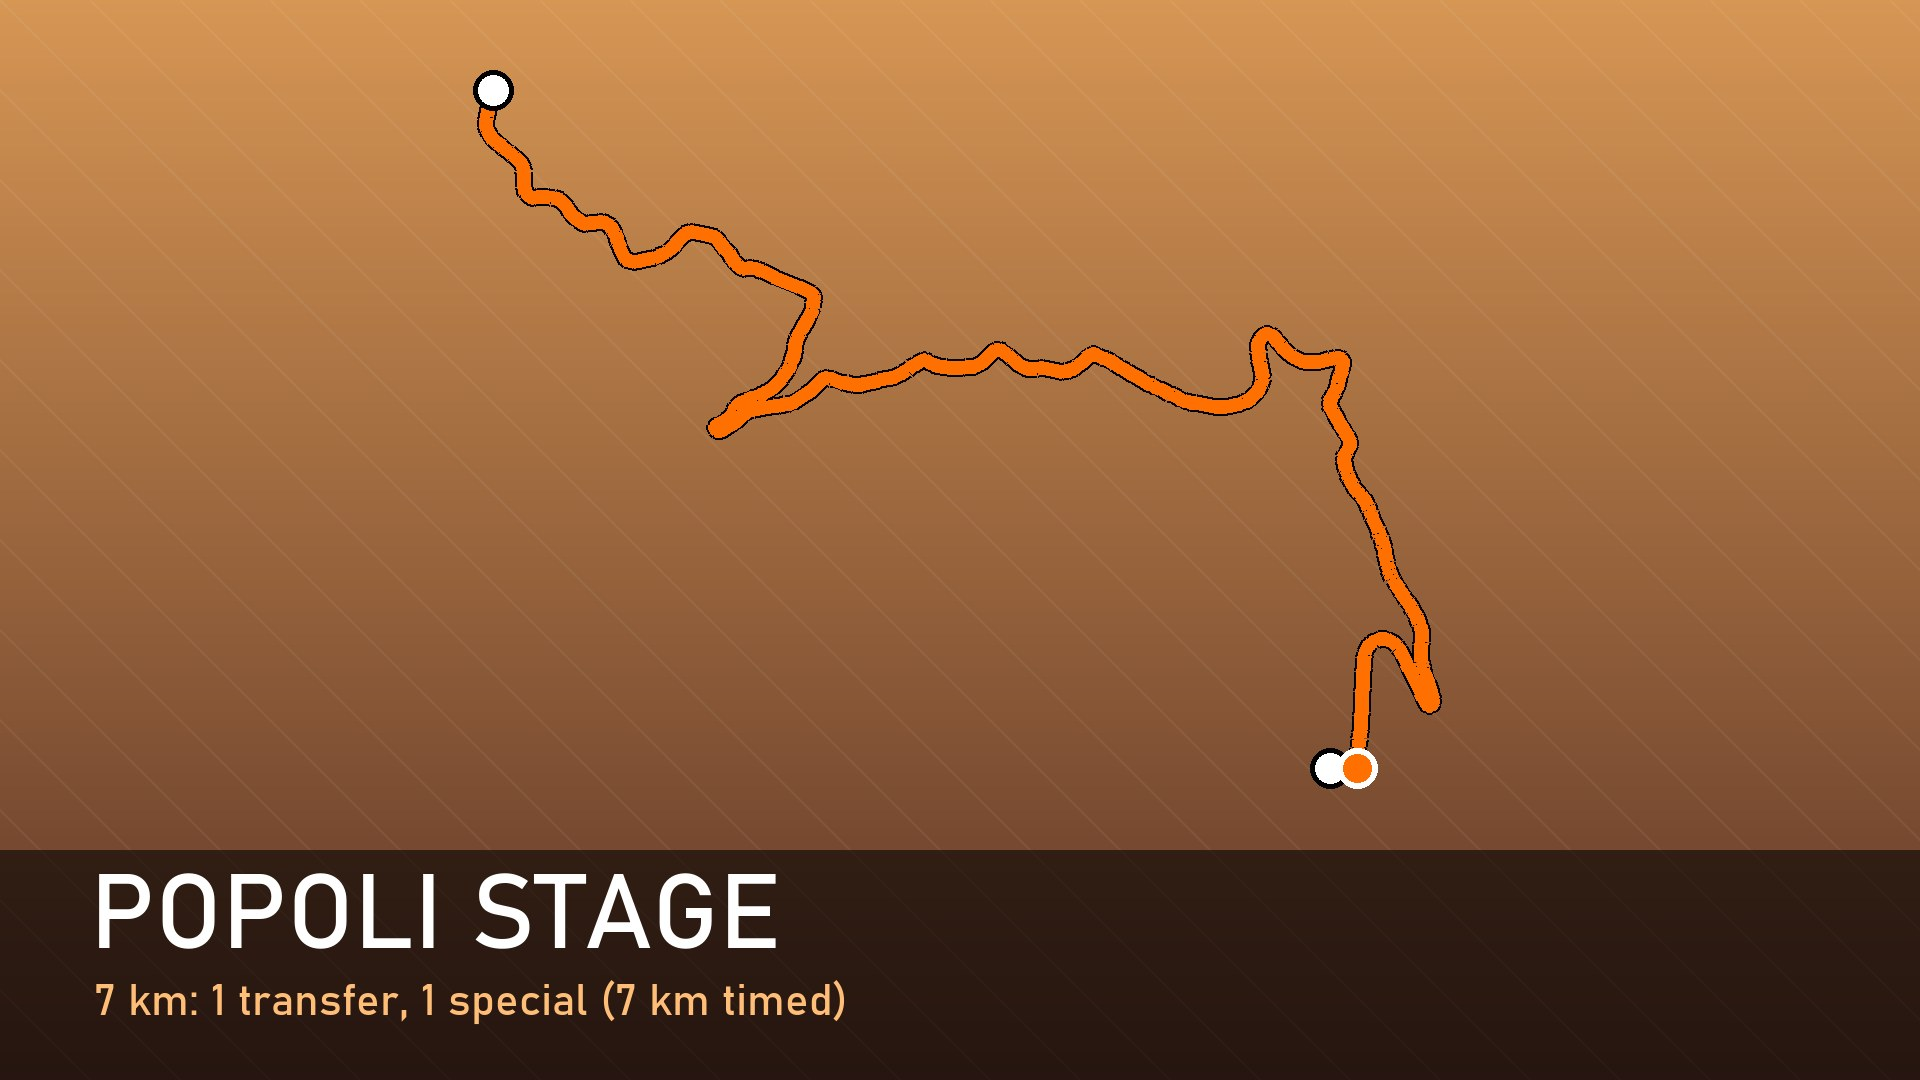
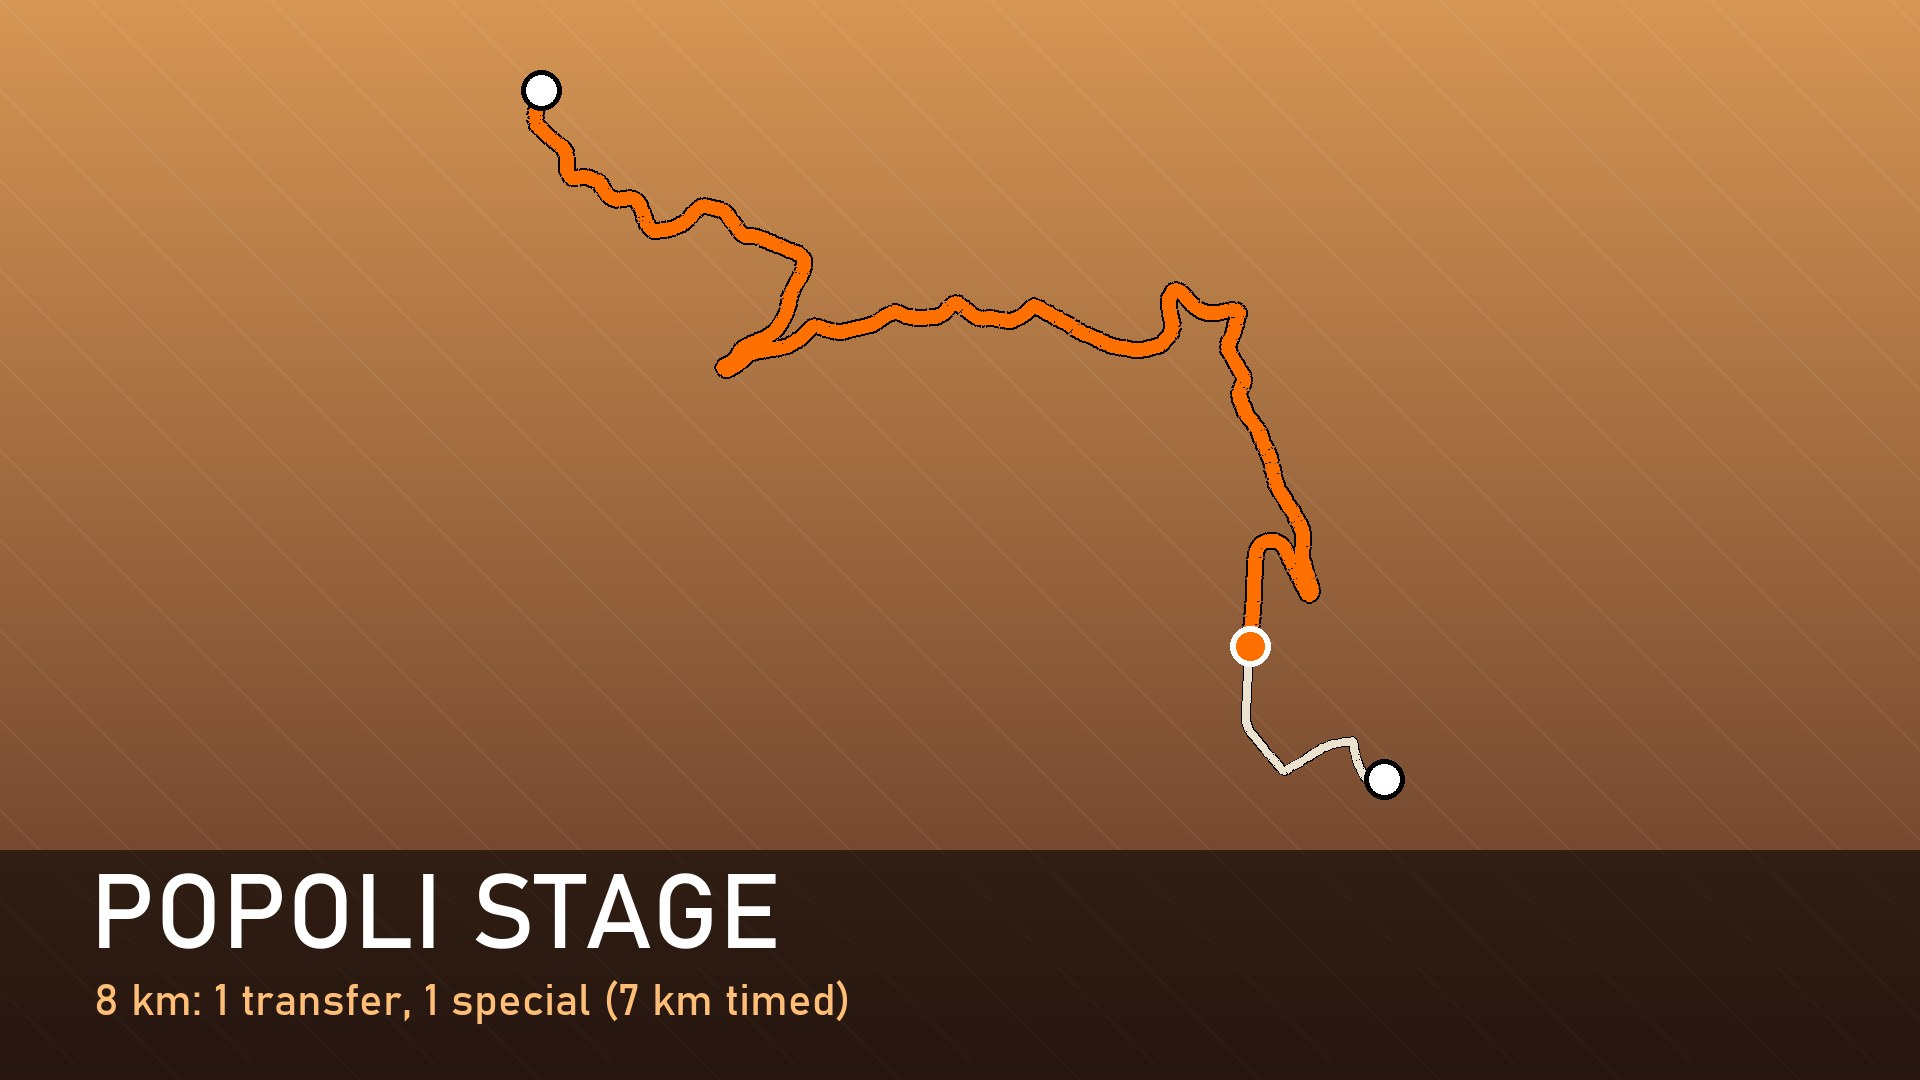
Popoli: start from the car park in Popoli Terme, the transfer under the railway on the SR17
The service park moves to the car park at 42.16956, 13.83153 (Piazzale Emilio Alessandrini, by Via Tiburtina). The
transfer is 1.2 km: Via Tiburtina, Via Beato Nunzio Sulprizio, then north up the SR17 through its underpass under the
Rome-Pescara railway and into the stage start from behind (the join is kept). The underpass is a road on the ground
under the railway's bridges with BeamNG.Earth's fix (TecnaGamer/BeamNG.Earth#1341). The stage is unchanged, its pace
notes kept. Missions' texts, previews, README and tests follow.

Changed region(s): [[0.25, 0.0611, 0.75, 0.7333], [0.0312, 0.9167, 0.4375, 0.9472]]

diff --git a/tests/test_core.py b/tests/test_core.py
@@ -586,7 +586,7 @@ def test_a_menu_start_after_a_loop_was_quit_is_not_held_up(lua):
     lua.execute("LEVEL = 'beamng_earth'; EARTH_IN_LEVEL = true; ANCHOR_LL = { 37.09, -7.99 }; PLAYER_LL = { 37.0884, -7.9865 }")
     lua.execute("core.onUpdate(1)")
     assert logs(lua, "the Earth level is in")
-    assert lua.eval("TELEPORT[1]") == pytest.approx(42.1749, abs=1e-3)  # on its way to the Popoli service park
+    assert lua.eval("TELEPORT[1]") == pytest.approx(42.1696, abs=1e-3)  # on its way to the Popoli service park
 
 
 def test_a_finished_loop_lets_the_markers_follow_the_anchor_again(lua):
@@ -783,8 +783,8 @@ def test_the_second_edition_far_from_its_service_park_says_where_it_is(lua):
 
 def test_a_teleport_to_the_second_edition_goes_to_its_service_park(lua):
     lua.execute("core.start('svolte-di-popoli', true)")
-    assert lua.eval("TELEPORT[1]") == pytest.approx(42.1749, abs=1e-3)
-    assert lua.eval("TELEPORT[2]") == pytest.approx(13.8231, abs=1e-3)
+    assert lua.eval("TELEPORT[1]") == pytest.approx(42.1696, abs=1e-3)
+    assert lua.eval("TELEPORT[2]") == pytest.approx(13.8317, abs=1e-3)
 
 
 def test_every_editions_loop_has_its_start_trigger_on_its_own_service_park(lua):
@@ -810,9 +810,9 @@ def test_every_legs_mission_has_its_marker_on_the_time_control_that_opens_it(lua
     for p in (road1, ss1):
         assert abs(p[0]) < 2000 and abs(p[1]) < 2000 and (p[0], p[1]) != (0, 0)
     # the first liaison opens at TC0, a few metres from the loop's marker on the service park; SS1 at TC1, the end of the
-    # 169 m transfer, about 100 m away
+    # 1.2 km transfer, about 830 m away as the crow flies
     assert math.dist(road1, loop) < 40
-    assert 60 < math.dist(ss1, road1) < 200
+    assert 600 < math.dist(ss1, road1) < 1200
     # the testbed's legs, 2000 km away, are moved too (every edition's)
     far = tc("rallyStage/earthrally-testbed-ss1", 1)
     assert abs(far) > 100000
@@ -957,7 +957,7 @@ def test_the_window_picks_the_edition_its_teleports_go_to(lua):
     lua.execute("core.onUpdate(0.1)")                                             # the pick
     lua.execute("BUTTONS, CLICK = {}, 'Teleport to the service park'")
     lua.execute("core.onUpdate(0.1)")
-    assert lua.eval("TELEPORT[1]") == pytest.approx(42.1749, abs=1e-3)
+    assert lua.eval("TELEPORT[1]") == pytest.approx(42.1696, abs=1e-3)
 
 
 # ---------------------------------------------------------------------------------------------------------------------

diff --git a/tests/test_props.py b/tests/test_props.py
@@ -351,8 +351,9 @@ def test_legs_json_picks_the_landmark_side_and_its_reach(world):
 
 
 def test_the_popoli_landmark_stands_on_the_outer_side_of_its_last_bend_by_tc1():
-    # the Svolte di Popoli's TC1, up the SR17 past the left turn the transfer makes onto it (when this was written it
-    # was after a short underpass and a bend to the right)
+    # the Popoli Stage's TC1, at the end of the transfer up the SR17 from the railway underpass: the tower on the outer
+    # side of the bend the road makes over its last OUTER_SIDE_M (the left when it stays straight), worked out here from
+    # the geometry with the rule's own chords
     popoli = os.path.join(ROOT, "editions", "svolte-di-popoli")
     rt = lupa.LuaRuntime(unpack_returned_tuples=True)
     rt.execute("math.atan2 = math.atan2 or function(y, x) return math.atan(y, x) end")
@@ -371,7 +372,20 @@ def test_the_popoli_landmark_stands_on_the_outer_side_of_its_last_bend_by_tc1():
     end = road[-1]
     tower = by_id(items, "road1:stagein_tower")
     hx, hy = end[0] - road[-4][0], end[1] - road[-4][1]
-    assert side_of(tower, end, math.atan2(hy, hx)) == 1                # the road bends left onto the SR17: the tower is on the right
+    arc = [0.0]
+    for a, b in zip(road, road[1:]):
+        arc.append(arc[-1] + math.dist(a[:2], b[:2]))
+
+    def at(s):
+        i = max(k for k in range(len(arc)) if arc[k] <= s) if s < arc[-1] else len(arc) - 2
+        f = (s - arc[i]) / max(arc[i + 1] - arc[i], 1e-9)
+        return (road[i][0] + (road[i + 1][0] - road[i][0]) * f, road[i][1] + (road[i + 1][1] - road[i][1]) * f)
+    s0 = max(0.0, arc[-1] - props.OUTER_SIDE_M)
+    a0, a1, b0, b1 = at(s0), at(min(arc[-1], s0 + 40)), at(arc[-1] - 40), at(arc[-1])
+    ax, ay, bx, by = a1[0] - a0[0], a1[1] - a0[1], b1[0] - b0[0], b1[1] - b0[1]
+    turn = math.degrees(math.atan2(ax * by - ay * bx, ax * bx + ay * by))
+    want = -1 if abs(turn) < props.OUTER_SIDE_MIN_DEG else (1 if turn > 0 else -1)
+    assert side_of(tower, end, math.atan2(hy, hx)) == want, turn
     assert 12 < min(math.dist((tower["x"], tower["y"]), r) for r in road) < 20
     assert math.dist((tower["x"], tower["y"]), end) < 35
     # and TC1 and the stage start (a few metres apart) are dressed once

diff --git a/tests/test_alignment.py b/tests/test_alignment.py
@@ -159,15 +159,20 @@ def test_every_join_of_the_geometry_is_driven_into_from_behind_and_straight(ed):
         assert joins.check(pa, pb)["ok"]
 
 
-def test_popoli_ends_its_transfer_up_the_sr17_past_the_turn_and_not_near_the_underpass():
+def test_popoli_s_transfer_goes_under_the_railway_on_the_sr17_into_the_stage_start():
     edition, geo = load("svolte-di-popoli")
     road, ss = geo["road1"]["points"], geo["ss1"]["points"]
-    # the stage starts past the junction the transfer turns onto the SR17 at, which is south of it, heading north
+    # from the car park in Popoli Terme, south of the railway, up the SR17 through its underpass (42.1710, 13.8247: a
+    # road on the ground under the railway's bridges with BeamNG.Earth's fix, TecnaGamer/BeamNG.Earth#1341)
+    assert road[0][0] < 42.1705
+    under = min(range(len(road)), key=lambda i: joins.metres(road[i][:2], (42.1710, 13.8247)))
+    assert joins.metres(road[under][:2], (42.1710, 13.8247)) < 15
+    b = joins.bearing(road[under - 1], road[under + 1])
+    assert b < 20 or b > 300                                                  # heading north-west, up the SR17
+    # and on up the SR17 into the stage start from behind: arriving heading north, the stage north of the underpass
     assert ss[0][0] > 42.1745
-    assert joins.bearing(road[-2], road[-1]) < 20 or joins.bearing(road[-2], road[-1]) > 340      # arriving heading north
-    # the blocked railway underpass (42.1710, 13.8247) is nowhere near either leg
-    for p in road + ss:
-        assert joins.metres(p[:2], (42.1710, 13.8247)) > 300
+    assert joins.bearing(road[-2], road[-1]) < 20 or joins.bearing(road[-2], road[-1]) > 340
+    assert all(joins.metres(p[:2], (42.1710, 13.8247)) > 300 for p in ss)  # (the stage itself stays north of it)
 
 
 @pytest.mark.parametrize("ed", EDITIONS)

diff --git a/tests/test_days_core.py b/tests/test_days_core.py
@@ -188,7 +188,7 @@ def test_no_ferry_after_the_last_day_or_a_day_without_one(days):
 def test_a_mission_list_start_of_a_day_far_from_its_bivouac_teleports_there_and_then_starts_with_the_lists_settings(days):
     lua = days
     lua.execute("core.onExtensionLoaded()")
-    lua.execute("PLAYER_LL = { 42.1749, 13.8231 }")               # standing at Popoli: day one's bivouac is in the Algarve
+    lua.execute("PLAYER_LL = { 42.1696, 13.8317 }")               # standing at Popoli: day one's bivouac is in the Algarve
     m = lua.eval("(function() return gameplay_missions_missions.getMissionById('beamng_earth/rallyLoop/earthrally-mini-d01') end)()")
     lua.execute("gameplay_missions_missionManager.startWithFade(gameplay_missions_missions.getMissionById('beamng_earth/rallyLoop/earthrally-mini-d01'),"
                 " { setupModuleVehicles = 3 }, {})")

diff --git a/tests/test_popoli.py b/tests/test_popoli.py
@@ -109,7 +109,7 @@ def test_the_transfer_is_short_and_leaves_a_parking_lot_for_the_stage_start(geom
     assert metres((lot["lat"], lot["lon"]), (lot["spawn"]["lat"], lot["spawn"]["lon"])) < 1       # (the car starts on an aisle)
     assert metres(road["points"][0], lot["lead"][-1][:2]) < 1                                    # and TC0, where the lead ends, starts the leg
     assert metres(road["points"][-1], ss["points"][0]) < 1          # the stage starts where the transfer ends
-    assert metres(road["points"][0], (42.1749, 13.8231)) < 50       # the car park north of the railway
+    assert metres(road["points"][0], (42.16956, 13.83153)) < 50     # the car park in Popoli Terme, south of the railway
 
 
 def test_the_special_has_closures_on_its_side_roads(geometry):

diff --git a/README.md b/README.md
@@ -138,12 +138,14 @@ the risks in the pull request that added them: nothing of this was driven in the
 ## Popoli Stage
 
 The second edition, `editions/svolte-di-popoli`: the Svolte di Popoli hillclimb (SR17, Abruzzo) as a rally loop with a
-single special stage, **Popoli Stage** in the mission list. A 0.2 km transfer from a car park above contrada
-Canapine to the start on the SR17 (256 m), then the SR17 up its hairpins to San Benedetto in Perillis at the gate of
+single special stage, **Popoli Stage** in the mission list. A 1.2 km transfer from the car park in Popoli Terme
+(Piazzale Emilio Alessandrini, by Via Tiburtina) to the start on the SR17 above contrada Canapine (256 m), passing under
+the railway through the SR17's underpass, then the SR17 up its hairpins to San Benedetto in Perillis at the gate of
 the Navelli plateau (723 m): 7.4 km, about 470 m of climb (it.wikipedia: 7.53 km, 250 to 725 m, 6.3 percent). The
-service park and the start are north of the SR17's underpass under the railway, which is blocked in the game. The
-stage's `via` points lie on the SR17 line chained from OpenStreetMap, close enough that OSRM follows its hairpins. Drive
-to the service park (42.1749, 13.8231, above contrada Canapine) and start it from the mission list like the testbed; the BeamNG.EarthRally
+underpass needs BeamNG.Earth with TecnaGamer/BeamNG.Earth#1341: without it Earth makes the SR17 a deck on the ground
+through the underpass. The stage's `via` points lie on the SR17 line chained from OpenStreetMap, close enough that OSRM
+follows its hairpins. Drive to the service park (42.1696, 13.8317, Popoli Terme) and start it from the mission list like
+the testbed; the BeamNG.EarthRally
 window has a button per edition for the teleport. Built with the same tools as the testbed below, on
 `editions/svolte-di-popoli`.
 
